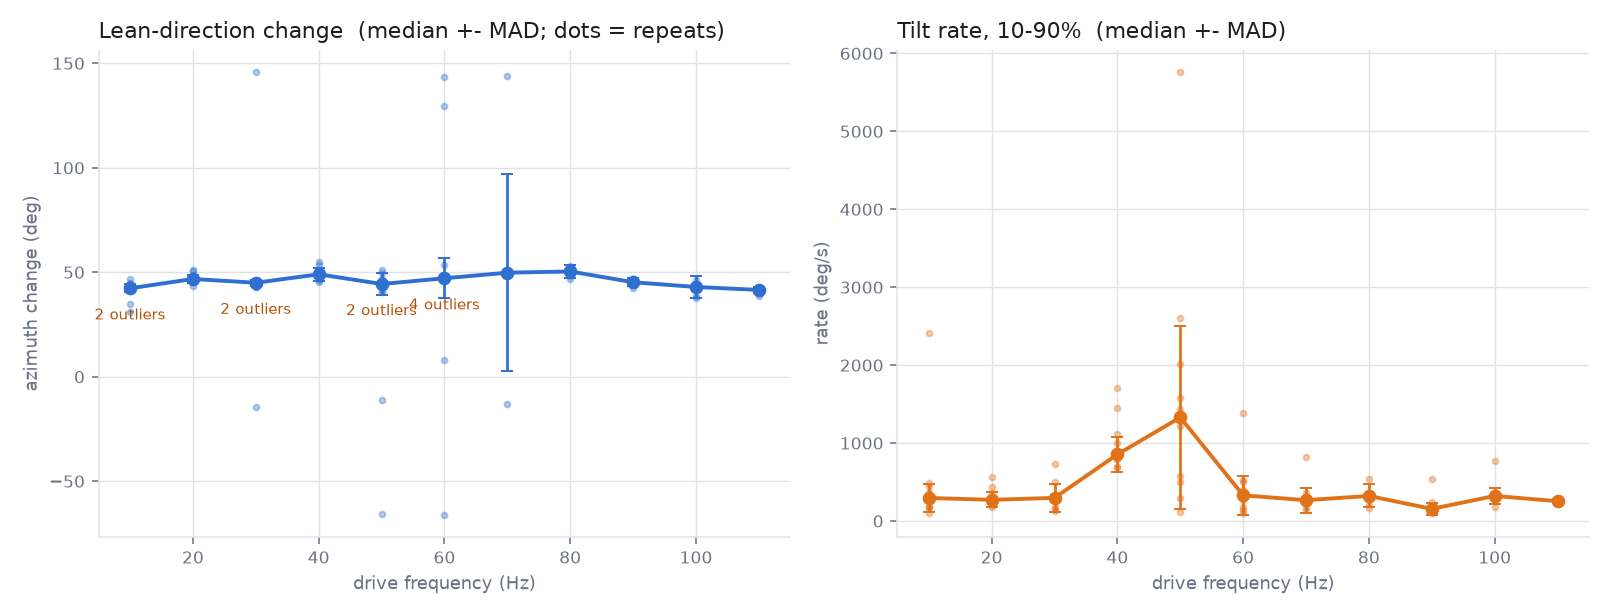
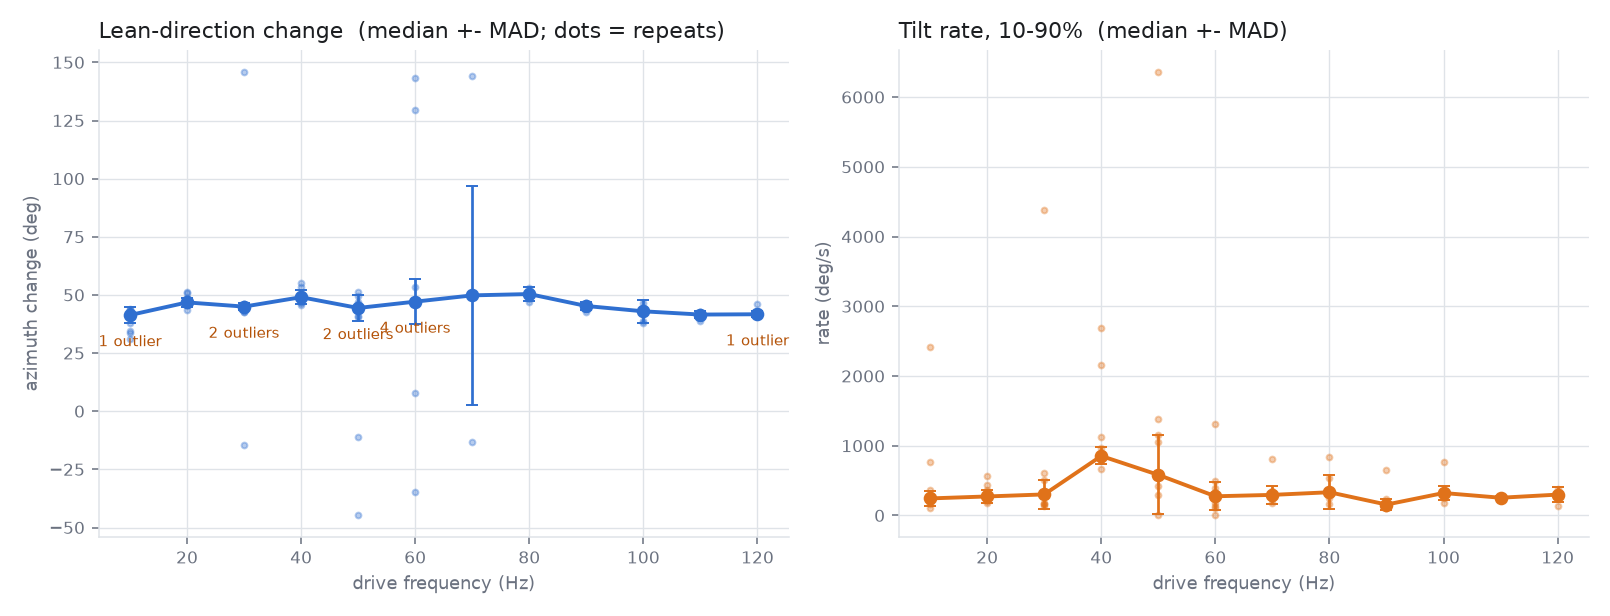
alignment_rate: guard the azimuth singularity, and the makeup schedule
Three guards, each from a measured failure rather than a judgement call:

- AZIMUTH_MIN_RADIAL_DEG = 5.0 drops samples below 5 deg of lean BEFORE the unwrap.
  Order matters: a spike carried into `unwrap` is taken for a real excursion and
  shifts every later sample's branch, so masking afterwards does not undo it. 5 deg
  is the knee -- 1 deg drops 25% of jumps for 0.7% of samples, 5 drops 82% for 5.5%,
  8 drops 96% for 16.8%.
- IMPOSSIBLE_DEG_S = 3000 refuses any ramp containing a step that fast. The axis's
  own great-circle speed is median 125 deg/s with p99.9 of 1002, and jumps cluster
  at 3000-15000 with NOTHING between 1000 and 3000, so the threshold sits in a real
  gap. Without it one corrupt sample is the steepest "ramp" in the record and wins
  outright, which put a -1648 deg/s fit on 40 Hz take 2026-09-09_211543.
- MAX_LAG_S = 0.20 requires the ramp to START within a physical dead time. Clean
  trials lag 11-66 ms; an unguarded search put a 422 ms "dead time" and a downward
  gradient on 50 Hz take 2026-09-09_234949, which is a later swing of the
  oscillation and not the response to the cut.

STEEP_FRAC = 0.5 completes the operator's rule -- the ramp must be steep as well as
large. "First pair over JUMP_DEG" alone latched onto a shallow early wander at 40 and
50 Hz. It measurably improves repeatability: CV 0.47 -> 0.36 at 40 Hz, 0.70 -> 0.61
at 50, 0.45 -> 0.23 at 80, unchanged at 20 and 110.
[…]

diff --git a/ESP32_PMW/controller/control/alignment_rate.py b/ESP32_PMW/controller/control/alignment_rate.py
@@ -97,6 +97,47 @@ SWING_MAX_S = 0.40
 #: ~150 ms against ~19.6 ms sampling is 8 samples, so 0.2 a side leaves about 5 to fit.
 BUFFER_FRAC = 0.2
 
+#: A qualifying ramp must also be STEEP: at least this fraction of the steepest qualifying
+#: ramp in the search window. "First pair over JUMP_DEG" alone is only half the operator's
+#: rule and it mis-fires -- at 40 and 50 Hz a shallow early wander clears 10 deg before the
+#: real swing starts, and the fit landed on that instead. Relative, not an absolute deg/s,
+#: so it stays scale-free across a rate that runs 300-1500 deg/s over the sweep.
+STEEP_FRAC = 0.5
+
+#: Radial lean (deg) below which the azimuth is DROPPED rather than believed. Azimuth is the
+#: direction of lean, so its noise is sigma/sin(radial) and it has a coordinate singularity at
+#: the datum -- with the measured 3.18 deg of per-frame axis scatter that is 6 deg/frame of
+#: azimuth noise at 30 deg of lean but 61 at 3 deg, which at 19.6 ms sampling is 3100 deg/s.
+#: That is the whole explanation for the near-vertical spikes: 82.4% of physically impossible
+#: jumps sit below 5 deg of lean against 5.5% of samples, a 15x enrichment.
+#:
+#: It is NOT a hemisphere or sign error, which was the first hypothesis and was tested and
+#: rejected: only 0.75% of frames sit below the rest datum, they sit at LARGE lean (median
+#: 39.2 deg), take 2026-09-09_212646 has zero of them and still shows both its jumps, and
+#: enforcing the constraint a priori removes 7% of jumps and leaves 93%.
+#:
+#: 5 deg is the knee of the cost curve: 1 deg drops 25% of jumps for 0.7% of samples, 5 deg
+#: drops 82% for 5.5%, 8 deg drops 96% for 16.8%. `disc_video` uses 1.0 for the same idea,
+#: which is "meaningless" rather than "noisier than the signal".
+AZIMUTH_MIN_RADIAL_DEG = 5.0
+
+#: Sample-to-sample azimuth rate (deg/s) above which the step is not physical and the ramp
+#: containing it is refused. The axis's own great-circle speed -- sign-invariant, so blind to
+#: every hemisphere and branch question -- is median 125 deg/s over all kill windows with a
+#: p99.9 of 1002, and the measured alignment rates run 500-1500. Jumps cluster at 3000-15000
+#: with NOTHING between 1000 and 3000, so the threshold sits in a real gap rather than on a
+#: judgement call. The AZIMUTH_MIN_RADIAL_DEG mask removes 82% of these; this refuses to fit
+#: the rest instead of reporting a gradient made of one corrupt sample.
+IMPOSSIBLE_DEG_S = 3000.0
+
+#: Latest a ramp may START, measured from the cut, to count as the alignment event. Every
+#: clean trial in the campaign lags 11-66 ms (median ~50), which is coil-current decay plus
+#: rotor inertia. A ramp beginning hundreds of ms later is a LATER swing of the oscillation,
+#: not the response to the cut -- an unguarded search put a 422 ms "dead time" and a downward
+#: gradient on 50 Hz take 2026-09-09_234949. 200 ms is 3x the largest real lag and still well
+#: inside the first swing.
+MAX_LAG_S = 0.20
+
 
 # ---------------------------------------------------------------- reading the take
 
@@ -363,7 +404,20 @@ def azimuth_from_rest(t, axis, up, t_kill, pre_s=PRE_S):
     e1 /= np.linalg.norm(e1)
     e2 = np.cross(up, e1)
     a = orient_continuous(axis, up)
-    azi = np.degrees(np.unwrap(np.arctan2(a @ e2, a @ e1)))
+    raw = np.arctan2(a @ e2, a @ e1)
+    # Drop the samples where the azimuth is not defined well enough to unwrap, BEFORE
+    # unwrapping. Order matters: a spike carried into `unwrap` is taken for a real excursion
+    # and shifts every later sample's branch, so masking afterwards does not undo it. The
+    # gaps are then interpolated across, which is honest for a lean that stays away from the
+    # datum and a guess for one that crosses it -- see the caveat below.
+    lean = tilt_from(a, up)
+    ok = lean >= AZIMUTH_MIN_RADIAL_DEG
+    if ok.sum() < 20:
+        return None
+    azi = np.full(len(raw), np.nan)
+    azi[ok] = np.degrees(np.unwrap(raw[ok]))
+    if (~ok).any():
+        azi = np.interp(t, t[ok], azi[ok])
     m = (t >= t_kill - pre_s) & (t < t_kill)
     if m.sum() < 20:
         return None
@@ -518,10 +572,31 @@ def relu_window(ts, ys, t_kill, amp_sign=None, sd_base=None):
             sign = sk
     turns.append(len(y) - 1)
 
+    # Every ramp that is LARGE enough, with its gradient, so "steep" can be judged against
+    # the steepest of them rather than against a constant.
+    cand = []
     for p_, q_ in zip(turns, turns[1:]):
-        if q_ - p_ < 2:
+        if q_ - p_ < 2 or abs(y[q_] - y[p_]) < JUMP_DEG:
             continue
-        if abs(y[q_] - y[p_]) < JUMP_DEG:
+        dt_ = x[q_] - x[p_]
+        if dt_ <= 0:
+            continue
+        if x[p_] - t_kill > MAX_LAG_S:
+            continue
+        # A ramp is only a ramp if every step inside it is physical. Without this a single
+        # corrupt sample is the steepest "ramp" in the record and wins outright -- it is what
+        # put a -1648 deg/s fit on 40 Hz take 2026-09-09_211543, whose trace jumps 280 deg
+        # between two samples.
+        steps = np.abs(np.diff(y[p_:q_ + 1])) / np.maximum(np.diff(x[p_:q_ + 1]), 1e-9)
+        if steps.size and steps.max() > IMPOSSIBLE_DEG_S:
+            continue
+        cand.append((p_, q_, abs(y[q_] - y[p_]) / dt_))
+    if not cand:
+        return float("nan"), float("nan"), float("nan")
+    steepest = max(c[2] for c in cand)
+
+    for p_, q_, g_ in cand:
+        if g_ < STEEP_FRAC * steepest:
             continue
         # Trim the buffer, then fit the middle. Backed off if the ramp is too short to
         # spare it -- a biased slope beats no slope, and the bias is toward under-reading.
